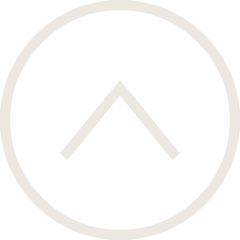
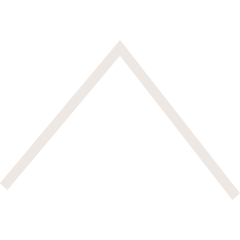
Refactor to include withSize. Address comments from PR.

Changed region(s): [[0.0, 0.0, 1.0, 1.0], [0.2333, 0.3208, 0.7583, 0.6708]]

diff --git a/src/samples/atc/components/FooterDesktop.js b/src/samples/atc/components/FooterDesktop.js
@@ -31,11 +31,20 @@ const columns = [
   },
   {
     heading: 'Contact Us',
-    type: 'text',
-    text: [
-      'Toll Free: 800.238.2687',
-      'Office: 574.262.1258',
-      'sales@atcomp.com',
+    type: 'links',
+    links: [
+      {
+        title: 'Toll Free: 800.238.2687',
+        url: '',
+      },
+      {
+        title: 'Office: 574.262.1258',
+        url: '',
+      },
+      {
+        title: 'sales@atcomp.com',
+        url: 'mailto:sales@atcomp.com',
+      },
     ],
   },
   {
@@ -74,7 +83,7 @@ const styles = {
     justifyContent: 'space-between',
     width: '100%',
     maxWidth: 1200,
-    borderBottomWidth: 2,
+    borderBottomWidth: 1,
     borderBottomStyle: 'solid',
     borderBottomColor: '#EDE8E4',
     flex: 1.6,
@@ -117,24 +126,25 @@ const styles = {
     justifyContent: 'flex-end',
   },
   button: {
-    height: 90,
-    width: 90,
+    height: 80,
+    width: 80,
     position: 'relative',
-    borderWidth: 0,
+    borderWidth: 2,
+    borderColor: '#EDE8E4',
     borderStyle: 'solid',
     borderRadius: '50%',
+    display: 'flex',
+    justifyContent: 'center',
+    alignItems: 'center',
     hovered: {
-      backgroundColor: 'rgba(255,255,255,0)',
-      borderWidth: 0,
-      color: 'white',
+      backgroundColor: 'rgba(0,0,0,0)',
+      borderColor: '#EDE8E4',
     },
   },
   buttonImg: {
-    height: 90,
-    width: 90,
-    position: 'absolute',
-    top: 0,
-    left: 0,
+    height: 45,
+    width: 45,
+    paddingBottom: 5,
   },
   bottomWrapper: {
     width: '100%',
@@ -158,8 +168,8 @@ const styles = {
     alignItems: 'center',
   },
   socials: {
-    height: 40,
-    width: 40,
+    height: 35,
+    width: 35,
   },
 }
 
@@ -199,7 +209,7 @@ class FooterDesktop extends Component {
           <FooterComponent columns={columns} styles={styles.footerComp}/>
           <div style={styles.buttonWrapper}>
             <Button onClick={handleScroll} styles={styles.button}>
-              <Media style={styles.buttonImg} object src={require('../assets/ScrollButton.png')} alt={'scroll'}/>
+              <Media object src={require('../assets/ScrollButton.png')} style={styles.buttonImg}/>
             </Button>
           </div>
         </div>

diff --git a/src/samples/atc/components/FooterMobile.js b/src/samples/atc/components/FooterMobile.js
@@ -93,7 +93,6 @@ const styles = {
       padding: 0,
       display: 'flex',
       flexDirection: 'column',
-      alignItems: 'center',
       justifyContent: 'center',
     },
     defaultHeader: {
@@ -123,7 +122,7 @@ const styles = {
     display: 'flex',
     justifyContent: 'space-between',
     alignItems: 'center',
-    borderBottomWidth: 2,
+    borderBottomWidth: 1,
     borderBottomStyle: 'solid',
     borderBottomColor: '#EDE8E4',
     padding: 0,
@@ -134,24 +133,24 @@ const styles = {
     height: 35,
   },
   button: {
-    height: 35,
-    width: 35,
+    height: 45,
+    width: 45,
     position: 'relative',
-    borderWidth: 0,
+    borderWidth: 2,
+    borderColor: '#EDE8E4',
     borderStyle: 'solid',
     borderRadius: '50%',
+    display: 'flex',
+    justifyContent: 'center',
+    alignItems: 'center',
     hovered: {
-      backgroundColor: 'rgba(255,255,255,0)',
-      borderWidth: 0,
-      color: 'white',
+      backgroundColor: 'rgba(0,0,0,0)',
+      borderColor: '#EDE8E4',
     },
   },
   buttonImg: {
-    width: 35,
-    height: 35,
-    position: 'absolute',
-    top: 0,
-    left: 0,
+    height: 25,
+    width: 25,
   },
   copyright: {
     textAlign: 'center',

diff --git a/src/components/Footer.js b/src/components/Footer.js
@@ -87,7 +87,20 @@ class Footer extends Component {
         return (
           <React.Fragment>
             {this.renderHeader(column, index)}
-            {column.links.map(link => <a href={link.url}  style={linkStyle}>{link.title}</a>)}
+            {column.links.map(link => {
+              return(
+              <React.Fragment>
+                {
+                  link.url.length > 0 &&
+                <a href={link.url} style={linkStyle}>{link.title}</a>
+                }
+                {
+                  link.url.length <= 0 &&
+                <div style={linkStyle}>{link.title}</div>
+                }
+              </React.Fragment>
+              )
+            })}
           </React.Fragment>
         )
       case 'image':
